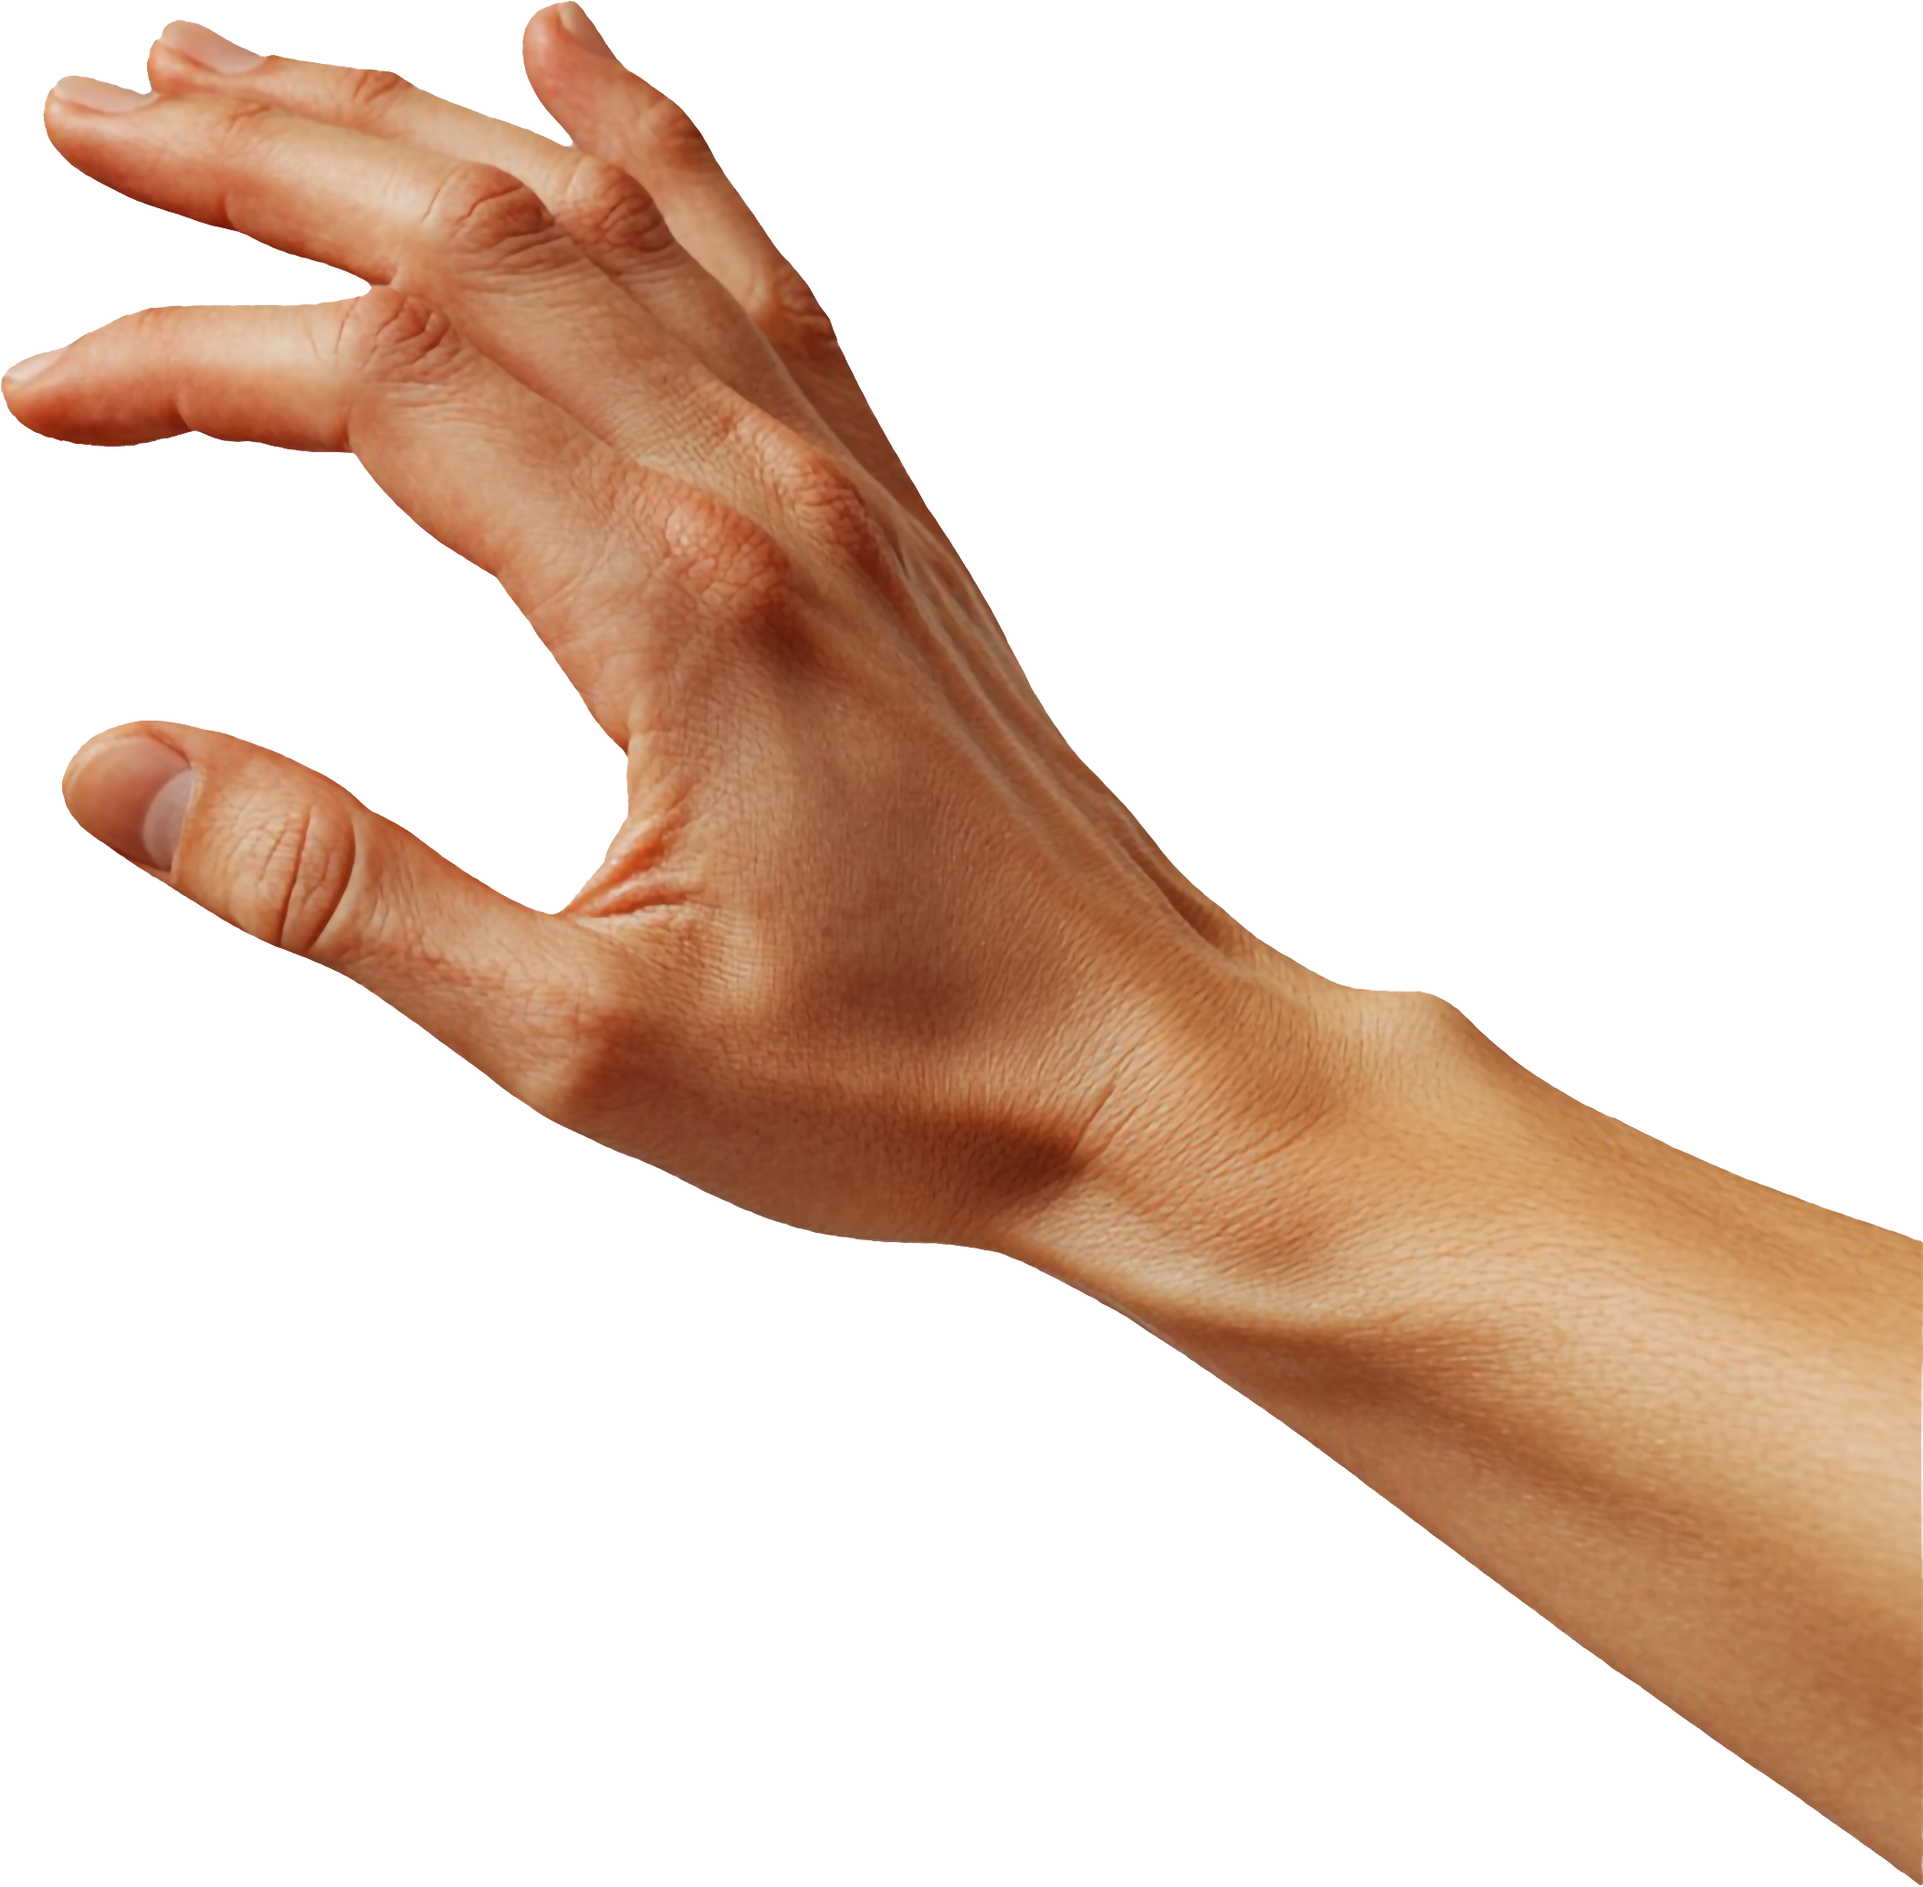
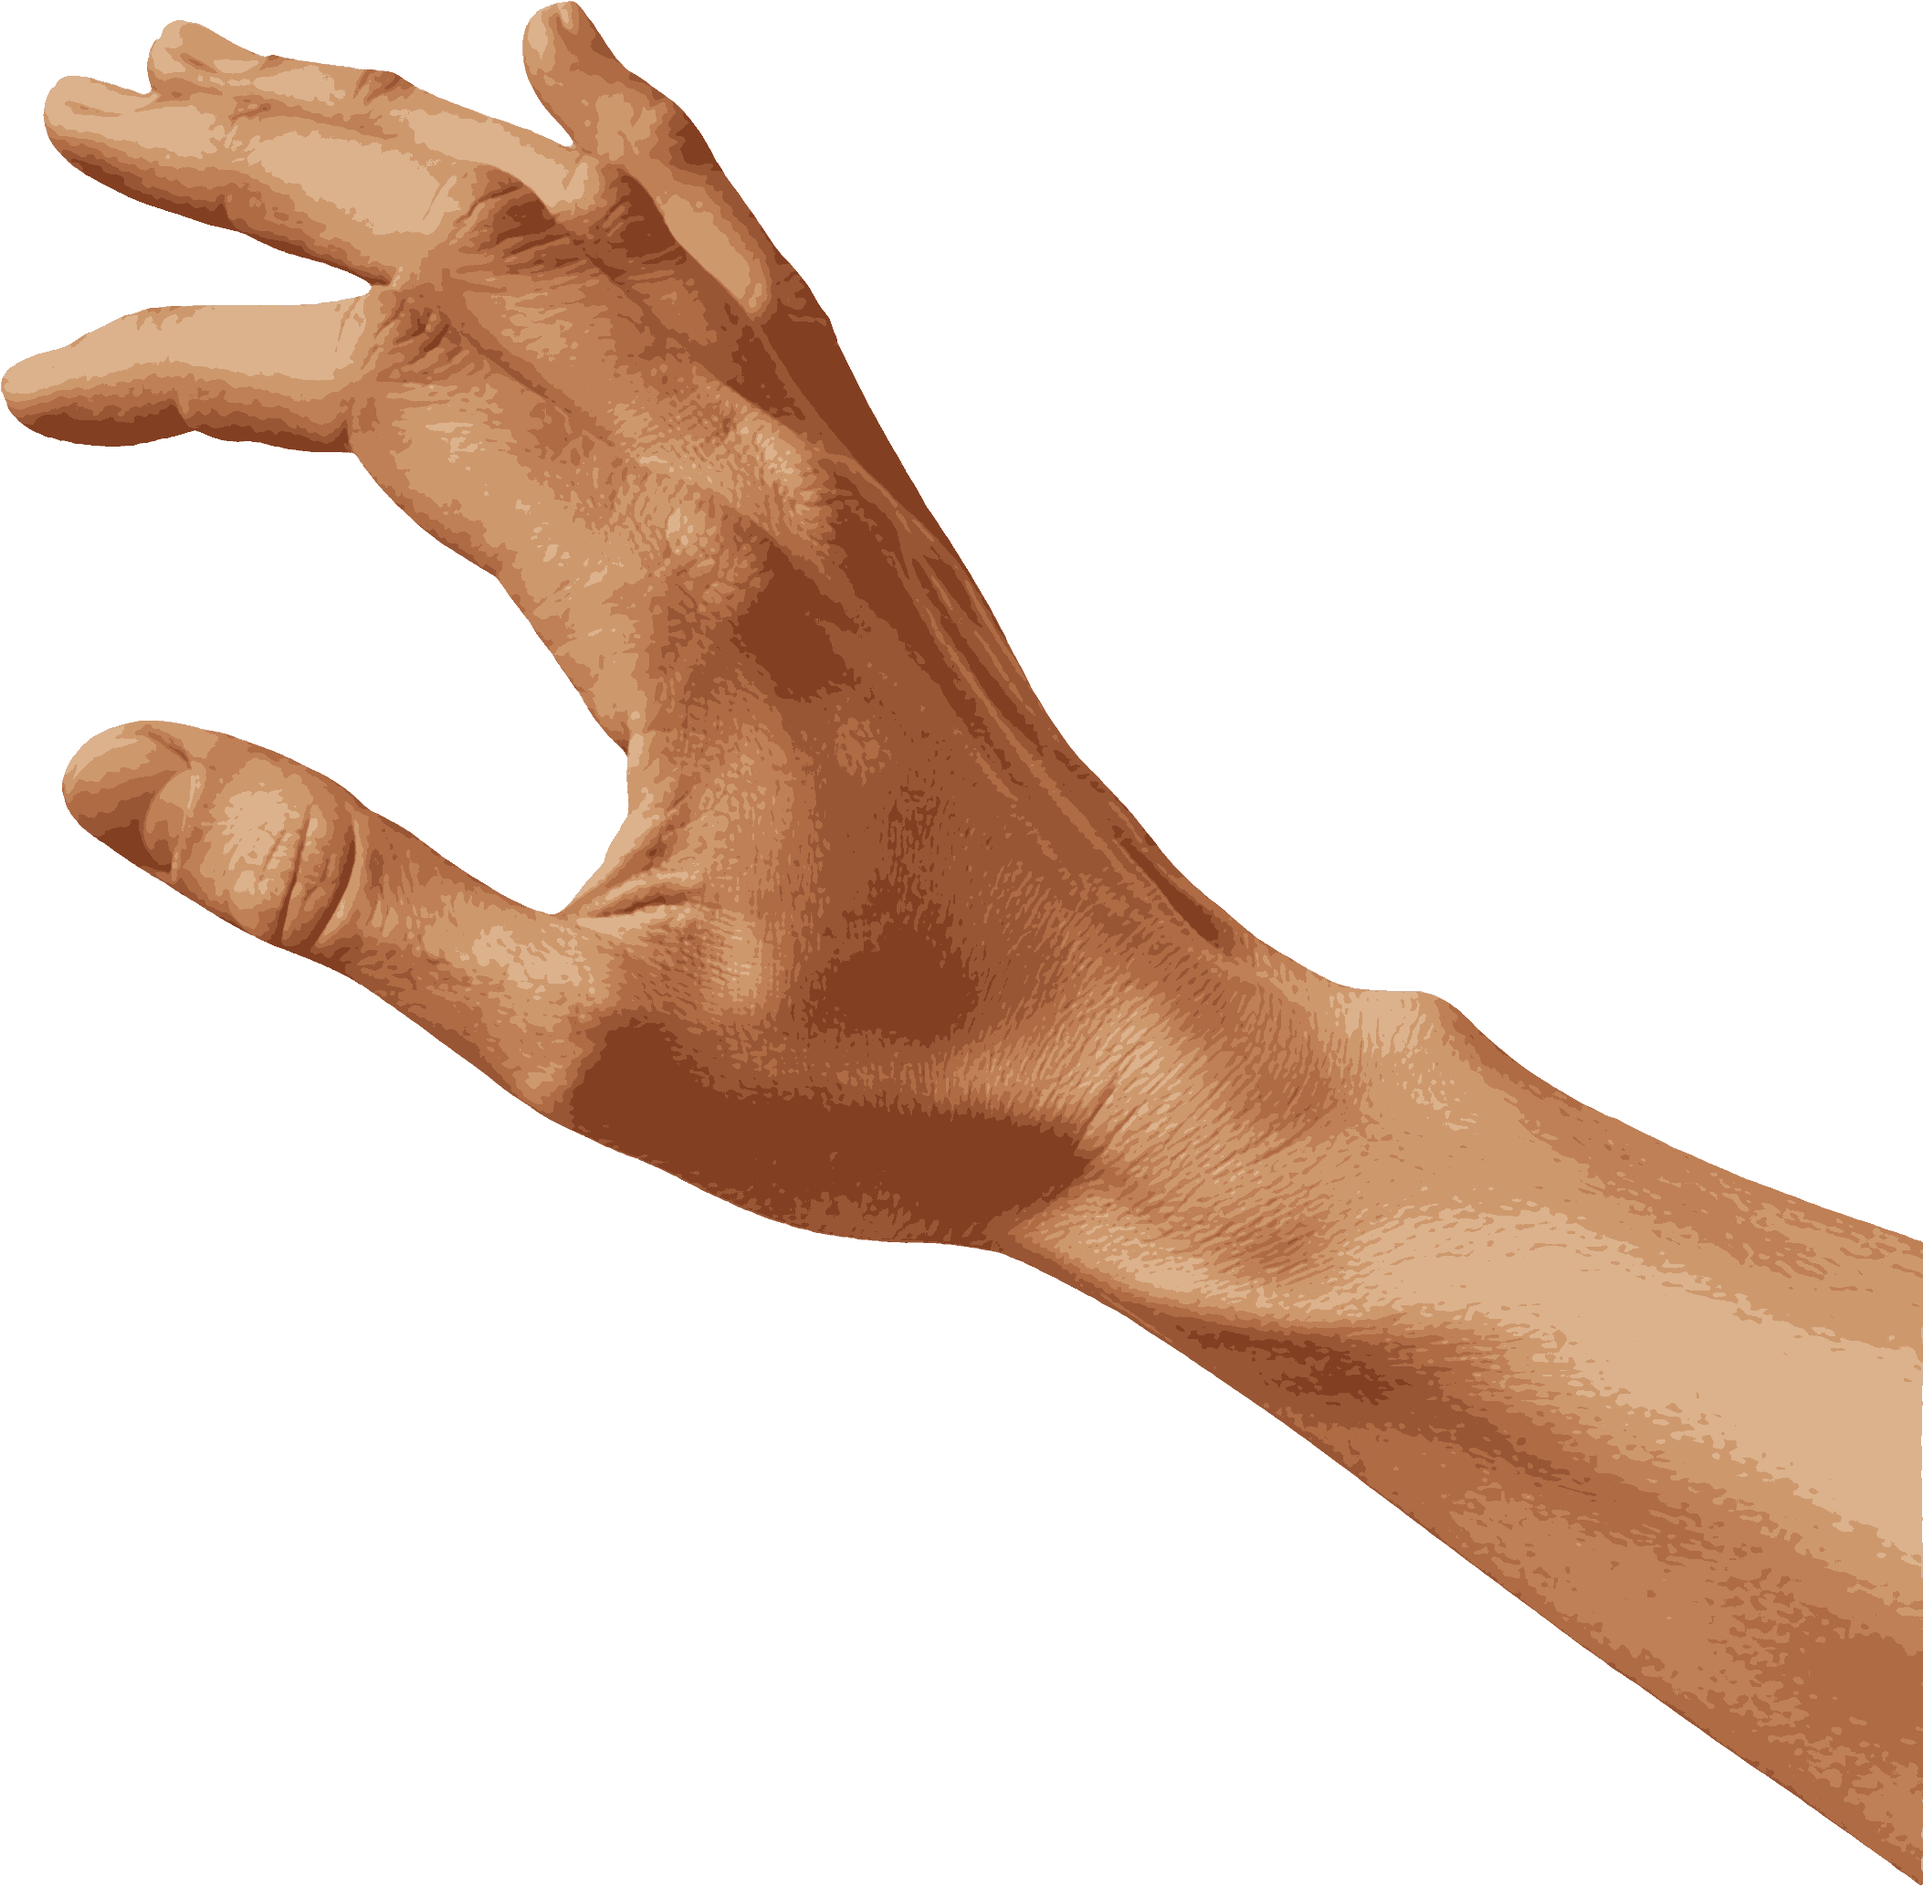
optimize

diff --git a/haskolinn/index.html b/haskolinn/index.html
@@ -20,7 +20,7 @@
     <h2 style="text-transform: uppercase;">Dragðu myndina til og skoðaðu</h2>
     <h2>Menntavísindasvið - HÍ</h2>
     </div>
-    <a class="button" href="https://www.haskolinn.is/" target="_blank">Sæktu um kennaranám - Vertu kennari</a>
+    <a class="button" href="https://hi.is/vertu_kennari" target="_blank">Sæktu um kennaranám - Vertu kennari</a>
     <div class="cursor"></div>
 </body>
 </html>
